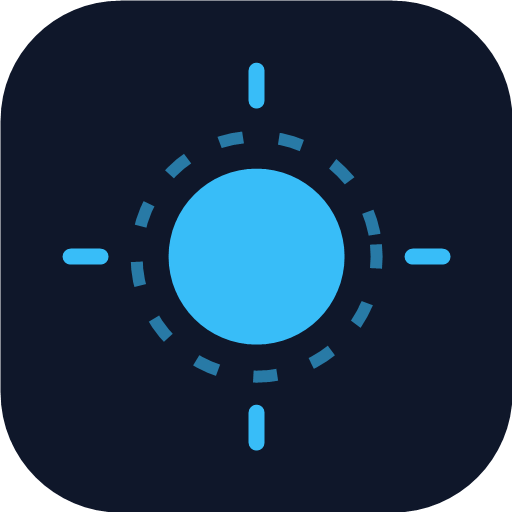
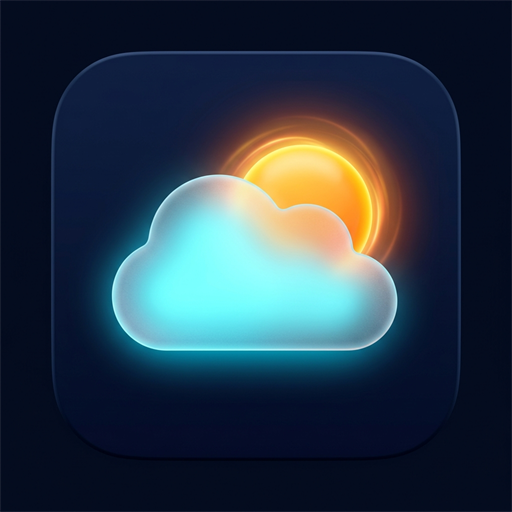
feat: nuevo icono 3D moderno de SkyBrief e iconos dinamicos para notificaciones (sol, lluvia, frio, calor)

diff --git a/app.js b/app.js
@@ -824,8 +824,38 @@ if (localStorage.getItem("notify_time")) {
   notifyStatus.textContent = `Aviso programado a las ${notifyTimeInput.value}`;
 }
 
+// Obtener estado visual del clima para la notificación (Sol, Lluvia, Frío, Calor)
+function obtenerMetricasClimaNotificacion() {
+  if (!datosMeteorologicos || !datosMeteorologicos.clima) {
+    return { condicion: "sol", icono: "☀", color: "#f59e0b", tag: "Soleado", iconFile: "icons/weather-sun.png" };
+  }
+  const { clima } = datosMeteorologicos;
+  const tempActual = Math.round(clima.current?.temperature_2m ?? clima.current_weather?.temperature ?? 20);
+  const tempMin = Math.round(clima.daily?.temperature_2m_min?.[0] ?? tempActual);
+  const tempMax = Math.round(clima.daily?.temperature_2m_max?.[0] ?? tempActual);
+  const lluviaProb = clima.daily?.precipitation_probability_max?.[0] ?? 0;
+  const weatherCode = clima.current?.weather_code ?? clima.current_weather?.weathercode ?? 0;
+
+  // Lluvia / precipitaciones
+  if (lluviaProb >= 40 || (weatherCode >= 51 && weatherCode <= 67) || (weatherCode >= 80 && weatherCode <= 99)) {
+    return { condicion: "lluvia", icono: "🌧", color: "#38bdf8", tag: "Lluvia", iconFile: "icons/weather-rain.png" };
+  }
+  // Frío / helada
+  if (tempMin <= 4 || tempActual <= 5) {
+    return { condicion: "frio", icono: "❄", color: "#60a5fa", tag: "Frío", iconFile: "icons/weather-cold.png" };
+  }
+  // Calor
+  if (tempMax >= 30 || tempActual >= 28) {
+    return { condicion: "calor", icono: "🔥", color: "#ef4444", tag: "Calor Intenso", iconFile: "icons/weather-heat.png" };
+  }
+  // Sol / tiempo despejado
+  return { condicion: "sol", icono: "☀", color: "#f59e0b", tag: "Soleado", iconFile: "icons/weather-sun.png" };
+}
+
 async function programarAlarmaMatutina(horaString, textoConsejo, tempTexto) {
   const LocalNotifications = window.Capacitor?.Plugins?.LocalNotifications;
+  const weatherInfo = obtenerMetricasClimaNotificacion();
+  const tituloNotificacion = `${weatherInfo.icono} SkyBrief • ${weatherInfo.tag} (${tempTexto})`;
 
   if (LocalNotifications) {
     const permiso = await LocalNotifications.requestPermissions();
@@ -850,8 +880,8 @@ async function programarAlarmaMatutina(horaString, textoConsejo, tempTexto) {
       notifications: [
         {
           id: 101,
-          title: `SkyBrief • ${tempTexto}`,
-          body: textoConsejo || "Consulta tu recomendación de vestimenta y movilidad para hoy.",
+          title: tituloNotificacion,
+          body: `${weatherInfo.icono} ${textoConsejo || "Consulta tu recomendación de vestimenta y movilidad para hoy."}`,
           schedule: { 
             at: fechaDisparo,
             repeats: true,
@@ -859,6 +889,7 @@ async function programarAlarmaMatutina(horaString, textoConsejo, tempTexto) {
             allowWhileIdle: true
           },
           sound: "beep.wav",
+          iconColor: weatherInfo.color,
           smallIcon: "ic_stat_name"
         }
       ]
@@ -868,8 +899,8 @@ async function programarAlarmaMatutina(horaString, textoConsejo, tempTexto) {
     notifBadge.textContent = "Activo";
     notifBadge.style.background = "#065f46";
     notifBadge.style.color = "#6ee7b7";
-    notifyStatus.textContent = `Aviso diario programado a las ${horaString}`;
-    alert(`Aviso programado con éxito todos los días a las ${horaString}.`);
+    notifyStatus.textContent = `${weatherInfo.icono} Aviso diario programado a las ${horaString}`;
+    alert(`Aviso (${weatherInfo.tag}) programado con éxito todos los días a las ${horaString}.`);
     return;
   }
 
@@ -881,7 +912,7 @@ async function programarAlarmaMatutina(horaString, textoConsejo, tempTexto) {
       notifBadge.textContent = "Activo";
       notifBadge.style.background = "#065f46";
       notifBadge.style.color = "#6ee7b7";
-      notifyStatus.textContent = `Aviso diario activado para las ${horaString}`;
+      notifyStatus.textContent = `${weatherInfo.icono} Aviso diario activado para las ${horaString}`;
       alert(`Aviso web programado a las ${horaString}.`);
     } else {
       alert("Debes conceder permisos de notificación en Android para recibir el aviso.");

diff --git a/www/app.js b/www/app.js
@@ -824,8 +824,38 @@ if (localStorage.getItem("notify_time")) {
   notifyStatus.textContent = `Aviso programado a las ${notifyTimeInput.value}`;
 }
 
+// Obtener estado visual del clima para la notificación (Sol, Lluvia, Frío, Calor)
+function obtenerMetricasClimaNotificacion() {
+  if (!datosMeteorologicos || !datosMeteorologicos.clima) {
+    return { condicion: "sol", icono: "☀", color: "#f59e0b", tag: "Soleado", iconFile: "icons/weather-sun.png" };
+  }
+  const { clima } = datosMeteorologicos;
+  const tempActual = Math.round(clima.current?.temperature_2m ?? clima.current_weather?.temperature ?? 20);
+  const tempMin = Math.round(clima.daily?.temperature_2m_min?.[0] ?? tempActual);
+  const tempMax = Math.round(clima.daily?.temperature_2m_max?.[0] ?? tempActual);
+  const lluviaProb = clima.daily?.precipitation_probability_max?.[0] ?? 0;
+  const weatherCode = clima.current?.weather_code ?? clima.current_weather?.weathercode ?? 0;
+
+  // Lluvia / precipitaciones
+  if (lluviaProb >= 40 || (weatherCode >= 51 && weatherCode <= 67) || (weatherCode >= 80 && weatherCode <= 99)) {
+    return { condicion: "lluvia", icono: "🌧", color: "#38bdf8", tag: "Lluvia", iconFile: "icons/weather-rain.png" };
+  }
+  // Frío / helada
+  if (tempMin <= 4 || tempActual <= 5) {
+    return { condicion: "frio", icono: "❄", color: "#60a5fa", tag: "Frío", iconFile: "icons/weather-cold.png" };
+  }
+  // Calor
+  if (tempMax >= 30 || tempActual >= 28) {
+    return { condicion: "calor", icono: "🔥", color: "#ef4444", tag: "Calor Intenso", iconFile: "icons/weather-heat.png" };
+  }
+  // Sol / tiempo despejado
+  return { condicion: "sol", icono: "☀", color: "#f59e0b", tag: "Soleado", iconFile: "icons/weather-sun.png" };
+}
+
 async function programarAlarmaMatutina(horaString, textoConsejo, tempTexto) {
   const LocalNotifications = window.Capacitor?.Plugins?.LocalNotifications;
+  const weatherInfo = obtenerMetricasClimaNotificacion();
+  const tituloNotificacion = `${weatherInfo.icono} SkyBrief • ${weatherInfo.tag} (${tempTexto})`;
 
   if (LocalNotifications) {
     const permiso = await LocalNotifications.requestPermissions();
@@ -850,8 +880,8 @@ async function programarAlarmaMatutina(horaString, textoConsejo, tempTexto) {
       notifications: [
         {
           id: 101,
-          title: `SkyBrief • ${tempTexto}`,
-          body: textoConsejo || "Consulta tu recomendación de vestimenta y movilidad para hoy.",
+          title: tituloNotificacion,
+          body: `${weatherInfo.icono} ${textoConsejo || "Consulta tu recomendación de vestimenta y movilidad para hoy."}`,
           schedule: { 
             at: fechaDisparo,
             repeats: true,
@@ -859,6 +889,7 @@ async function programarAlarmaMatutina(horaString, textoConsejo, tempTexto) {
             allowWhileIdle: true
           },
           sound: "beep.wav",
+          iconColor: weatherInfo.color,
           smallIcon: "ic_stat_name"
         }
       ]
@@ -868,8 +899,8 @@ async function programarAlarmaMatutina(horaString, textoConsejo, tempTexto) {
     notifBadge.textContent = "Activo";
     notifBadge.style.background = "#065f46";
     notifBadge.style.color = "#6ee7b7";
-    notifyStatus.textContent = `Aviso diario programado a las ${horaString}`;
-    alert(`Aviso programado con éxito todos los días a las ${horaString}.`);
+    notifyStatus.textContent = `${weatherInfo.icono} Aviso diario programado a las ${horaString}`;
+    alert(`Aviso (${weatherInfo.tag}) programado con éxito todos los días a las ${horaString}.`);
     return;
   }
 
@@ -881,7 +912,7 @@ async function programarAlarmaMatutina(horaString, textoConsejo, tempTexto) {
       notifBadge.textContent = "Activo";
       notifBadge.style.background = "#065f46";
       notifBadge.style.color = "#6ee7b7";
-      notifyStatus.textContent = `Aviso diario activado para las ${horaString}`;
+      notifyStatus.textContent = `${weatherInfo.icono} Aviso diario activado para las ${horaString}`;
       alert(`Aviso web programado a las ${horaString}.`);
     } else {
       alert("Debes conceder permisos de notificación en Android para recibir el aviso.");

diff --git a/notify.js b/notify.js
@@ -114,25 +114,43 @@ Línea 2: [Coche & Vía]: Estado del vehículo (parabrisas/hielo si hace frío) 
     mensaje = `${ropa}\n${via}`;
   }
 
-  // 3. Selección de tag para ntfy según condiciones
-  let tag = "partly_sunny";
-  if (lluviaProb > 40) tag = "umbrella,warning";
-  else if (tempMin <= 3) tag = "snowflake,car";
-  else if (vientoMax > 40) tag = "wind_blowing_face,warning";
+  // 3. Selección de condición climática visual (Sol, Lluvia, Frío, Calor)
+  let tag = "sunny,sun_with_face";
+  let iconoClima = "☀";
+  let tituloClima = "Soleado";
+  let iconUrl = "https://raw.githubusercontent.com/vergaraact-jpg/skybrief/main/icons/weather-sun.png";
 
-  // 4. Envío a ntfy
+  if (lluviaProb >= 40 || (weatherCode >= 51 && weatherCode <= 67) || (weatherCode >= 80 && weatherCode <= 99)) {
+    tag = "rain_cloud,umbrella,droplet";
+    iconoClima = "🌧";
+    tituloClima = "Lluvia prevista";
+    iconUrl = "https://raw.githubusercontent.com/vergaraact-jpg/skybrief/main/icons/weather-rain.png";
+  } else if (tempMin <= 4 || tempActual <= 5) {
+    tag = "snowflake,cold_face,ice_cube";
+    iconoClima = "❄";
+    tituloClima = "Frío Intenso";
+    iconUrl = "https://raw.githubusercontent.com/vergaraact-jpg/skybrief/main/icons/weather-cold.png";
+  } else if (tempActual >= 28 || (wData.daily?.temperature_2m_max?.[0] >= 30)) {
+    tag = "hot_face,fire,sun";
+    iconoClima = "🔥";
+    tituloClima = "Calor Intenso";
+    iconUrl = "https://raw.githubusercontent.com/vergaraact-jpg/skybrief/main/icons/weather-heat.png";
+  }
+
+  // 4. Envío a ntfy con Icono e Imagen adjunta
   const pushRes = await fetch(`https://ntfy.sh/${NTFY_TOPIC}`, {
     method: "POST",
-    body: mensaje,
+    body: `${iconoClima} ${mensaje}`,
     headers: {
-      "Title": `Madrid ${tempActual}°C - Clima y Estado Vial`,
+      "Title": `${iconoClima} Madrid ${tempActual}°C • ${tituloClima}`,
       "Priority": lluviaProb > 60 || tempMin <= 2 ? "high" : "default",
-      "Tags": tag
+      "Tags": tag,
+      "Icon": iconUrl
     }
   });
 
   if (!pushRes.ok) throw new Error(`Fallo ntfy: ${pushRes.status}`);
-  console.log("Notificación enviada con éxito a ntfy.sh/" + NTFY_TOPIC + ":\n", mensaje);
+  console.log("Notificación enviada con éxito a ntfy.sh/" + NTFY_TOPIC + " [" + tituloClima + "]:\n", mensaje);
 }
 
 run().catch(err => {
